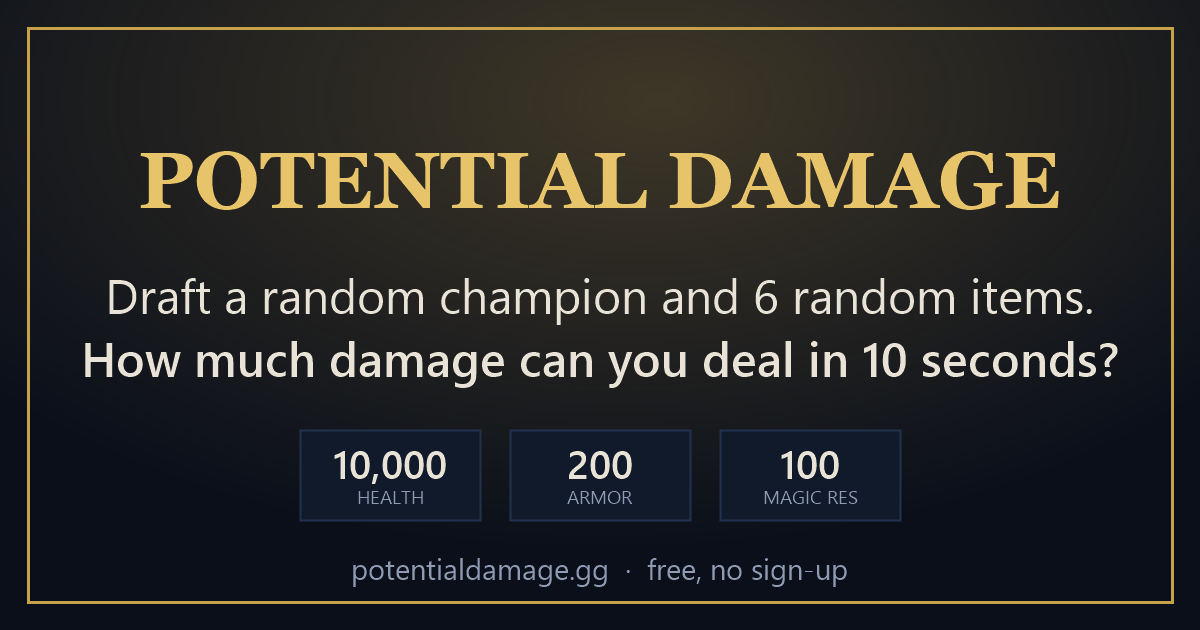
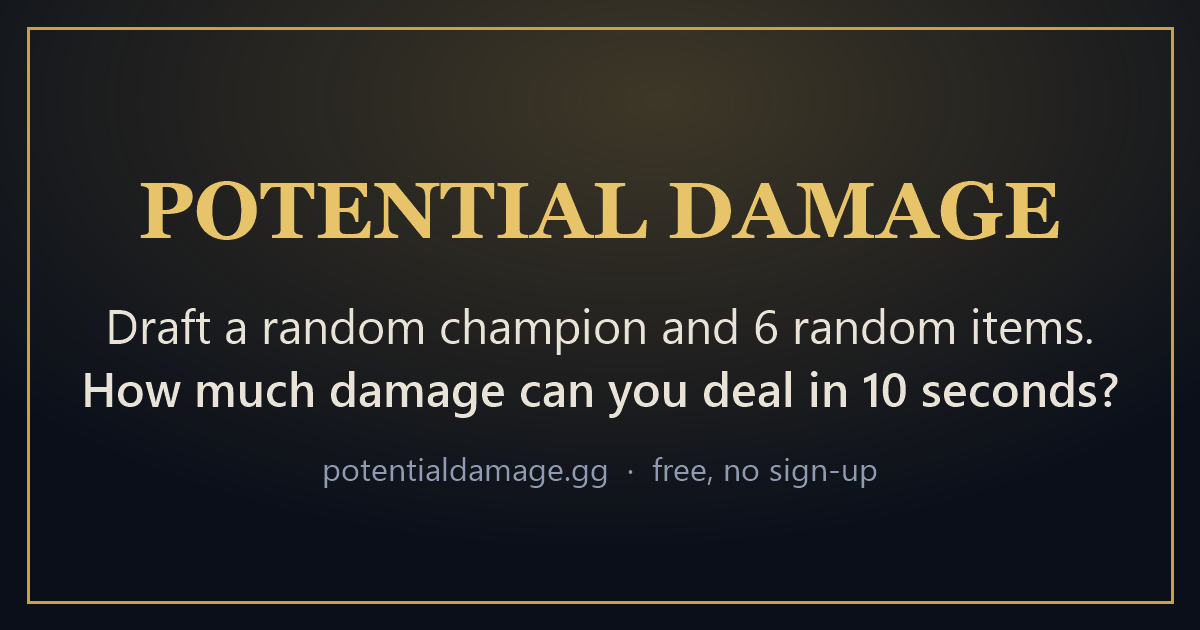
Preview image: dummy stats removed, text centred away from the edges (og.png?v=2 so previews refetch it)

diff --git a/index.html b/index.html
@@ -22,14 +22,14 @@
 <meta property="og:title" content="Potential Damage: how much damage can your random build deal?">
 <meta property="og:description" content="Draft a random champion and 6 random items, then fight a 10,000 HP training dummy for 10 seconds. Free, no sign-up, daily challenge and leaderboards.">
 <meta property="og:url" content="https://potentialdamage.gg/">
-<meta property="og:image" content="https://potentialdamage.gg/og.png">
+<meta property="og:image" content="https://potentialdamage.gg/og.png?v=2">
 <meta property="og:image:width" content="1200">
 <meta property="og:image:height" content="630">
 <meta property="og:image:alt" content="Potential Damage: draft a random champion and 6 random items. How much damage can you deal in 10 seconds?">
 <meta name="twitter:card" content="summary_large_image">
 <meta name="twitter:title" content="Potential Damage: how much damage can your random build deal?">
 <meta name="twitter:description" content="Draft a random champion and 6 random items, then fight a training dummy for 10 seconds. Free, no sign-up.">
-<meta name="twitter:image" content="https://potentialdamage.gg/og.png">
+<meta name="twitter:image" content="https://potentialdamage.gg/og.png?v=2">
 <link rel="preconnect" href="https://fonts.googleapis.com">
 <link href="https://fonts.googleapis.com/css2?family=Cinzel:wght@600;800&family=Inter:wght@400;500;600;700&display=swap" rel="stylesheet">
 <style>
